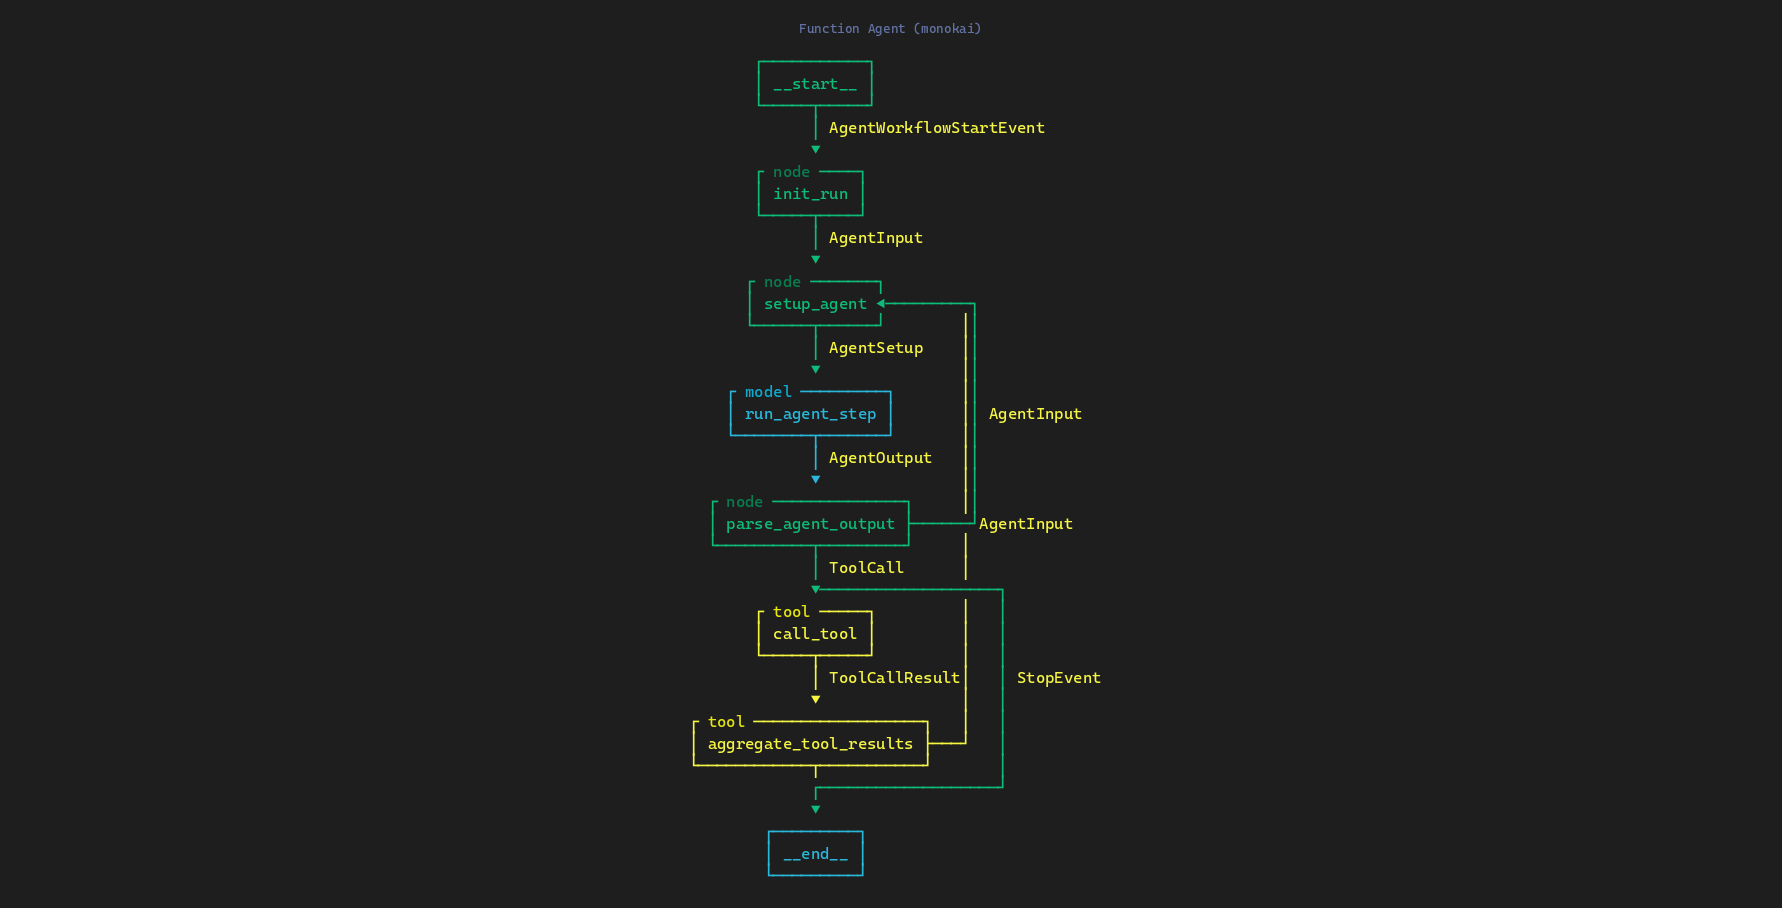
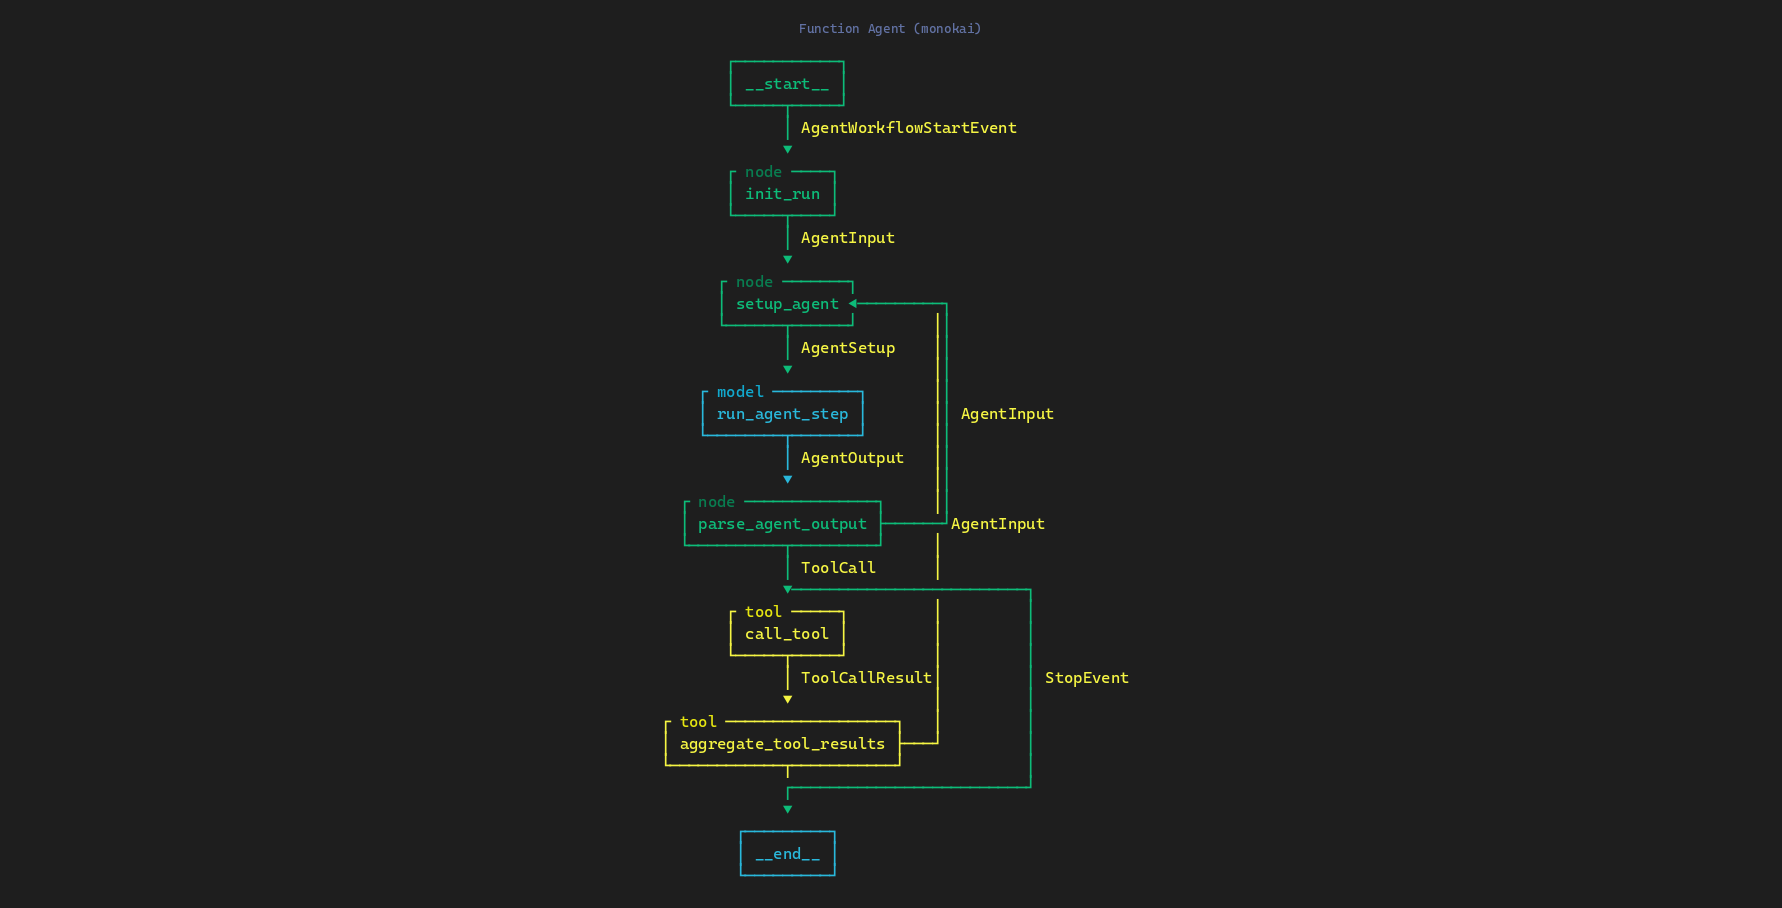
fix(renderer): prevent forward corridors from overwriting straight-edge labels
Move label_max_x computation before _forward_skip_corridors() and use it
as a floor for min_route_x, so corridors are placed to the right of any
edge labels. Also adds travel-rag-agent sample and bumps to v0.1.6.

diff --git a/src/graphtty/renderer.py b/src/graphtty/renderer.py
@@ -168,14 +168,9 @@ def _do_render_canvas(
 
     # 4. Determine canvas size — account for edge corridors
     corridor_map, extra_right = _backward_edge_corridors(graph.edges, boxes)
-    # Forward skip-layer corridors (placed after backward corridors)
-    min_fwd = (max(corridor_map.values()) + 3) if corridor_map else 0
-    fwd_map, fwd_extra = _forward_skip_corridors(
-        graph.edges, boxes, min_route_x=min_fwd
-    )
-    corridor_map.update(fwd_map)
-    extra_right = max(extra_right, fwd_extra)
-    # Account for edge labels that extend past the rightmost box
+
+    # Compute max right extent of forward-edge labels so corridors
+    # are placed past them and don't overwrite label text.
     label_max_x = 0
     for edge in graph.edges:
         if not edge.label:
@@ -184,16 +179,28 @@ def _do_render_canvas(
         tgt_box = boxes.get(edge.target)
         if src_box is None or tgt_box is None:
             continue
-        # Straight forward edges: label at tgt_cx + 2
-        if src_box.bottom < tgt_box.top:
-            cx = (
-                tgt_box.cx
-                if abs(src_box.cx - tgt_box.cx) <= _STRAIGHT_TOLERANCE
-                else (src_box.cx + tgt_box.cx) // 2
-            )
-            label_right = cx + 2 + len(edge.label)
-            if label_right > label_max_x:
-                label_max_x = label_right
+        if src_box.bottom >= tgt_box.top:
+            continue  # backward edge
+        cx = (
+            tgt_box.cx
+            if abs(src_box.cx - tgt_box.cx) <= _STRAIGHT_TOLERANCE
+            else (src_box.cx + tgt_box.cx) // 2
+        )
+        label_right = cx + 2 + len(edge.label)
+        if label_right > label_max_x:
+            label_max_x = label_right
+
+    # Forward skip-layer corridors (placed after backward corridors AND labels)
+    min_fwd = max(
+        (max(corridor_map.values()) + 3) if corridor_map else 0,
+        label_max_x + 1 if label_max_x > 0 else 0,
+    )
+    fwd_map, fwd_extra = _forward_skip_corridors(
+        graph.edges, boxes, min_route_x=min_fwd
+    )
+    corridor_map.update(fwd_map)
+    extra_right = max(extra_right, fwd_extra)
+
     box_max_x = max(b.x + b.w for b in boxes.values())
     max_x = max(box_max_x + extra_right, label_max_x) + options.padding
     max_y = max(b.y + b.h for b in boxes.values()) + options.padding

diff --git a/scripts/generate_screenshots.py b/scripts/generate_screenshots.py
@@ -203,6 +203,11 @@ def main():
             "nord",
             "Book Writer Agent (nord)",
         ),
+        (
+            "samples/travel-rag-agent/graph.json",
+            "solarized",
+            "Travel RAG Agent (solarized)",
+        ),
     ]
 
     images: list[tuple[str, Image.Image]] = []

diff --git a/CLAUDE.md b/CLAUDE.md
@@ -39,7 +39,7 @@ Other layout stages: component detection (BFS), cycle breaking (DFS back-edge re
 - After modifying any Python file, always run `uv run ruff check --fix .` before finishing
 - Before committing or creating a PR, always run `uv run ty check` and fix any errors
 - Commit messages MUST follow the [Conventional Commits](https://www.conventionalcommits.org/) format: `type(scope): description` (e.g. `feat: add adaptive width rendering`, `fix(renderer): handle zero-width canvas`). Valid types: `feat`, `fix`, `docs`, `style`, `refactor`, `perf`, `test`, `build`, `ci`, `chore`, `revert`. The repo uses commitlint to enforce this.
-- NEVER create a PR unless the user explicitly asks you to. Only commit, branch, and push when told to do so.
+- **NEVER commit, amend, push, create branches, or create PRs unless the user EXPLICITLY tells you to.** Do not assume — wait for direct instructions for every git operation.
 
 ## Common Commands
 
